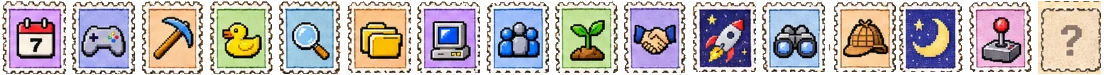
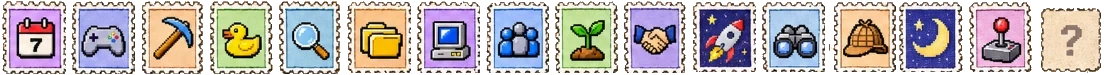
passport: drop dashed line and light card around the locked stamp
The locked '?' tile in passport-assets/stamps.webp had a light card and a
dashed edge baked in around the stamp outline. Everything outside the wavy
stamp outline is now transparent, so the locked stamp sits straight on the
passport paper like the earned ones. Bumps stamps.webp and passport.css
cache versions.

diff --git a/docs/meme/passport.css b/docs/meme/passport.css
@@ -17,7 +17,7 @@
 
 /* sprites: one row of tiles each */
 .pp-art { display: inline-block; flex: none; background-repeat: no-repeat; background-position-y: 0; }
-.pp-art-stamp { width: 46px; aspect-ratio: 69 / 75; background-image: url(passport-assets/stamps.webp?v=20261106pp1); background-size: 1600% 100%; }
+.pp-art-stamp { width: 46px; aspect-ratio: 69 / 75; background-image: url(passport-assets/stamps.webp?v=20261113lock); background-size: 1600% 100%; }
 /* Exclusive owner-approved Pond Pioneer art, standard 138x150 v3 tile. */
 .pp-art-stamp.is-pioneer { background-image: url(passport-assets/pond-pioneer-v3.webp?v=20261110pioneer); background-size: 100% 100%; }
 .pp-art-stamp.is-v3 { background-image: url(passport-assets/stamps-v3.webp?v=20261109val); background-size: 4800% 100%; }

diff --git a/docs/meme/meme.js b/docs/meme/meme.js
@@ -1755,7 +1755,7 @@
   var PP_CATALOG = 'passport-catalog.json?v=20261111launch';
   function passportCss() {
     if (!document.getElementById('fren-passport-css')) {
-      document.head.appendChild(el('link', {id:'fren-passport-css',rel:'stylesheet',href:'passport.css?v=20261112pr'}));
+      document.head.appendChild(el('link', {id:'fren-passport-css',rel:'stylesheet',href:'passport.css?v=20261113lock'}));
     }
   }
   // ?beta=fren test preview: while the passport functions are not on the server yet (or the tester is not
